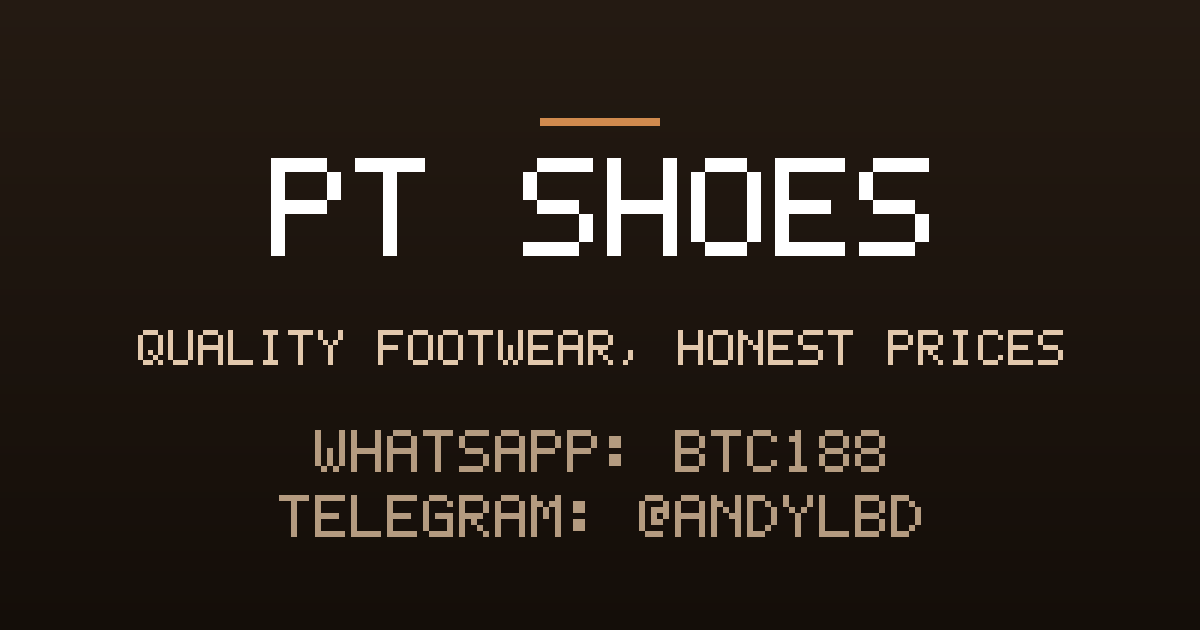
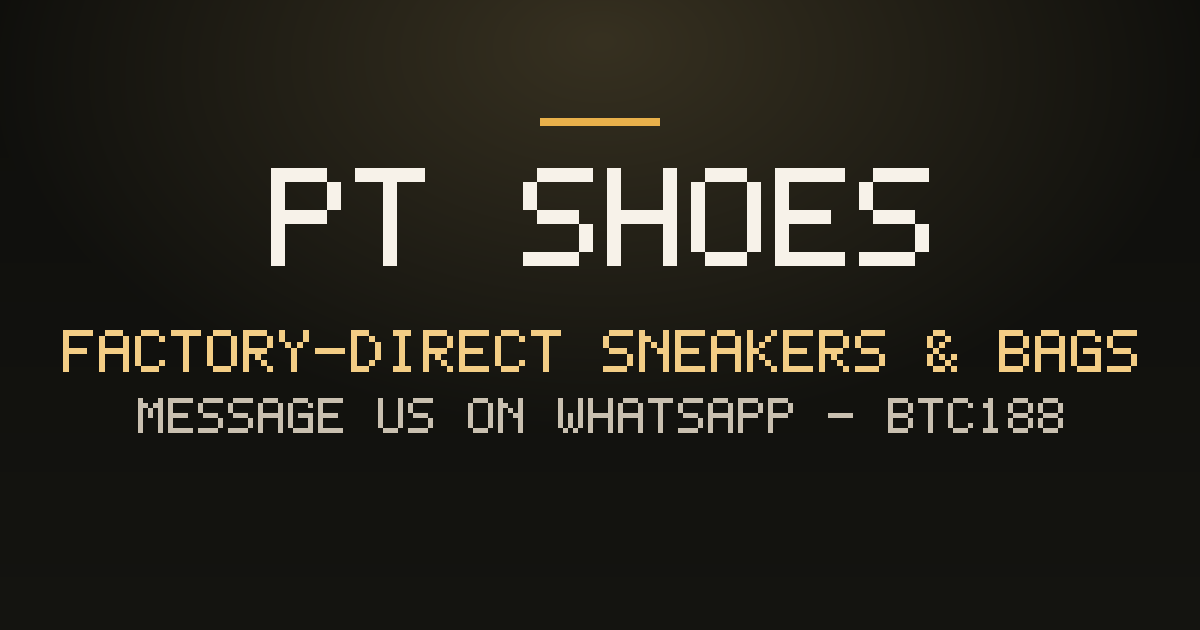
SEO: OnlineStore + FAQPage schema, hreflang, new og-image, trending drops section, marquee pause

diff --git a/index.html b/index.html
@@ -3,10 +3,13 @@
 <head>
   <meta charset="UTF-8" />
   <meta name="viewport" content="width=device-width, initial-scale=1" />
+    <meta name="theme-color" content="#0e0c09" />
   <title>PT Shoes — Factory-Direct Sneakers, Boots &amp; Bags | Order on WhatsApp</title>
   <meta name="description" content="Factory-direct sneakers, boots, bags and accessories. Premium quality checked one by one, honest prices, fast worldwide shipping. Message us on WhatsApp btc188 today." />
   <meta name="robots" content="index,follow" />
   <link rel="canonical" href="https://ptshoes.us.ci/" />
+  <link rel="alternate" hreflang="en" href="https://ptshoes.us.ci/" />
+  <link rel="alternate" hreflang="x-default" href="https://ptshoes.us.ci/" />
   <link rel="icon" href="/favicon.ico" />
   <link rel="icon" type="image/svg+xml" href="/site-icon.svg" />
   <link rel="apple-touch-icon" href="/site-icon.svg" />
@@ -20,6 +23,12 @@
   <meta name="twitter:title" content="PT Shoes — Factory-Direct Sneakers, Boots &amp; Bags" />
   <meta name="twitter:description" content="Premium quality, factory-direct prices, fast worldwide shipping. Message us today on WhatsApp." />
   <meta name="twitter:image" content="https://ptshoes.us.ci/og-image.png" />
+  <script type="application/ld+json">
+    {"@context":"https://schema.org","@type":"OnlineStore","name":"PT Shoes","url":"https://ptshoes.us.ci/","description":"Factory-direct sneakers, boots, and bags with hand-checked quality, honest prices, and worldwide shipping.","image":"https://ptshoes.us.ci/og-image.png","contactPoint":[{"@type":"ContactPoint","contactType":"customer service","url":"https://wa.me/btc188","availableLanguage":["English","Chinese"]},{"@type":"ContactPoint","contactType":"customer service","url":"https://t.me/andylbd","availableLanguage":["English","Chinese"]}]}
+  </script>
+  <script type="application/ld+json">
+    {"@context":"https://schema.org","@type":"FAQPage","mainEntity":[{"@type":"Question","name":"How do I place an order?","acceptedAnswer":{"@type":"Answer","text":"Just message us on WhatsApp (btc188) or Telegram (@andylbd) with what you'd like. We'll send photos, prices, and sizing help, and guide you through payment and shipping."}},{"@type":"Question","name":"How long does shipping take?","acceptedAnswer":{"@type":"Answer","text":"Orders are prepared and shipped quickly, then travel with full tracking. Exact delivery time depends on your location — ask us for an estimate before you order."}},{"@type":"Question","name":"How do I pick the right size?","acceptedAnswer":{"@type":"Answer","text":"Tell us your usual size (US, EU, or CM) and we'll confirm the best fit for each specific style, since sizing can vary between models."}},{"@type":"Question","name":"What payment methods do you accept?","acceptedAnswer":{"@type":"Answer","text":"We'll confirm the available payment options when you message us and pick the one that's most convenient for your region."}},{"@type":"Question","name":"What if there's a problem with my order?","acceptedAnswer":{"@type":"Answer","text":"We check every order before shipping, but if anything arrives wrong or damaged, message us right away with a photo and we'll make it right."}},{"@type":"Question","name":"Can I order more than one item?","acceptedAnswer":{"@type":"Answer","text":"Absolutely — mix and match shoes, bags, and accessories in one order. We'll pack everything together and give you one shipping quote."}}]}
+  </script>
   <style>
     :root {
       --bg: #0e0c09;
@@ -66,6 +75,7 @@
     }
     .marquee-track { display: inline-block; animation: marquee 26s linear infinite; }
     .marquee-track span { padding: 0 26px; }
+    .marquee:hover .marquee-track { animation-play-state: paused; }
     @keyframes marquee { from { transform: translateX(0); } to { transform: translateX(-50%); } }
 
     /* ---------- Nav ---------- */
@@ -478,6 +488,53 @@
           <h3>Accessories</h3>
           <p>Caps, socks, and the small extras that complete your style.</p>
           <span class="cat-link">See latest styles</span>
+        </a>
+      </div>
+    </section>
+
+    <!-- ==================== TRENDING ==================== -->
+    <section aria-labelledby="trending-title">
+      <div class="section-head">
+        <span class="eyebrow">Fresh drops</span>
+        <h2 id="trending-title">Trending in this week's catalog</h2>
+        <p>Real photos, sizes, and prices live in our WhatsApp catalog — tap any style and we'll send the latest pictures within minutes.</p>
+      </div>
+      <div class="cats">
+        <a class="cat" href="https://wa.me/btc188?text=Hi!%20Interested%20in%20retro%20runner%20styles" target="_blank" rel="noopener">
+          <span class="cat-emoji">👟</span>
+          <h3>Retro Runners</h3>
+          <p>Vintage silhouettes that never go out of style.</p>
+          <span class="cat-link">Ask for photos &amp; price</span>
+        </a>
+        <a class="cat" href="https://wa.me/btc188?text=Hi!%20Interested%20in%20high-top%20basketball%20styles" target="_blank" rel="noopener" style="--glow: rgba(214, 130, 60, 0.16);">
+          <span class="cat-emoji">🏀</span>
+          <h3>Court Classics</h3>
+          <p>High-top basketball looks with serious presence.</p>
+          <span class="cat-link">Ask for photos &amp; price</span>
+        </a>
+        <a class="cat" href="https://wa.me/btc188?text=Hi!%20Interested%20in%20lightweight%20running%20shoes" target="_blank" rel="noopener" style="--glow: rgba(96, 165, 210, 0.16);">
+          <span class="cat-emoji">🏃</span>
+          <h3>Featherlight Runners</h3>
+          <p>From morning jog to midnight errands in comfort.</p>
+          <span class="cat-link">Ask for photos &amp; price</span>
+        </a>
+        <a class="cat" href="https://wa.me/btc188?text=Hi!%20Interested%20in%20boots" target="_blank" rel="noopener" style="--glow: rgba(180, 140, 90, 0.18);">
+          <span class="cat-emoji">🥾</span>
+          <h3>All-Day Boots</h3>
+          <p>Rugged, sharp, and comfortable from day one.</p>
+          <span class="cat-link">Ask for photos &amp; price</span>
+        </a>
+        <a class="cat" href="https://wa.me/btc188?text=Hi!%20Interested%20in%20heels" target="_blank" rel="noopener" style="--glow: rgba(196, 92, 130, 0.16);">
+          <span class="cat-emoji">👠</span>
+          <h3>Evening Heels</h3>
+          <p>The finishing touch that steals the room.</p>
+          <span class="cat-link">Ask for photos &amp; price</span>
+        </a>
+        <a class="cat" href="https://wa.me/btc188?text=Hi!%20Interested%20in%20bags" target="_blank" rel="noopener" style="--glow: rgba(150, 110, 200, 0.16);">
+          <span class="cat-emoji">👜</span>
+          <h3>Everyday Bags</h3>
+          <p>Crossbodies and totes that carry the whole look.</p>
+          <span class="cat-link">Ask for photos &amp; price</span>
         </a>
       </div>
     </section>
